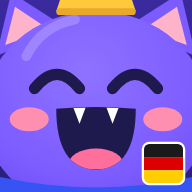
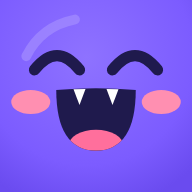
İkon: sade, ortalanmış gülen Gedsche yüzü (kulak/taç/bayrak yok) (#22)
Claude-Session: https://claude.ai/code/session_01LTzUWizdmoeNYR97g9fL25

diff --git a/sw.js b/sw.js
@@ -1,5 +1,5 @@
 /* Almanca Günlük – çevrimdışı önbellek. Sayfa ve içerik önce ağdan denenir, yoksa önbellekten gelir. */
-const C = "almanca-gunluk-v73";
+const C = "almanca-gunluk-v74";
 const FILES = ["./", "./index.html", "./data.js", "./manifest.webmanifest", "./icon-192.png", "./icon-512.png", "./icon-maskable-512.png"];
 
 self.addEventListener("install", e => {
